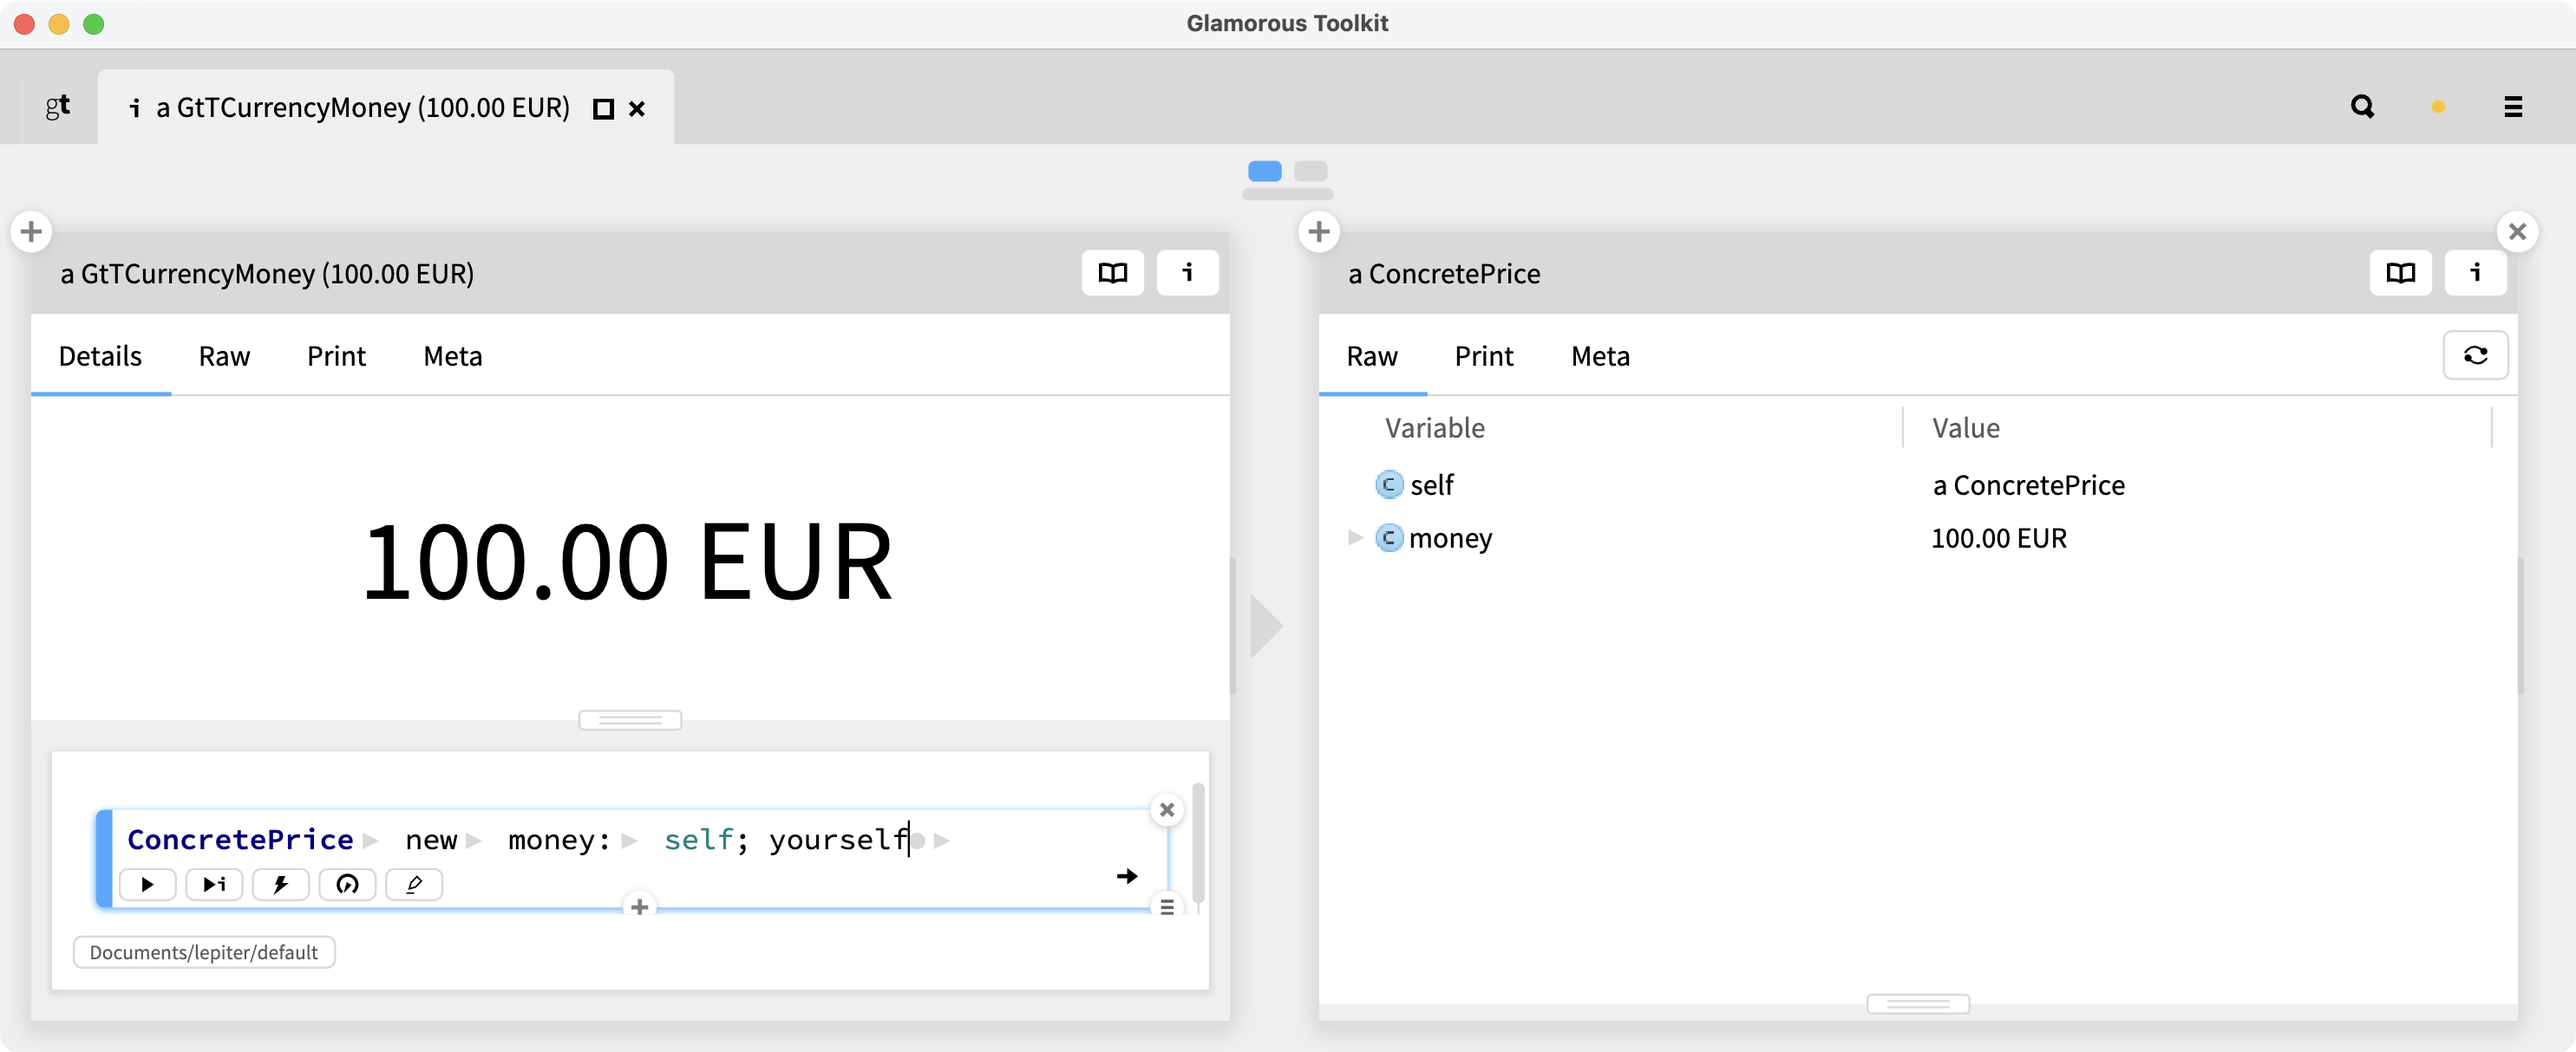
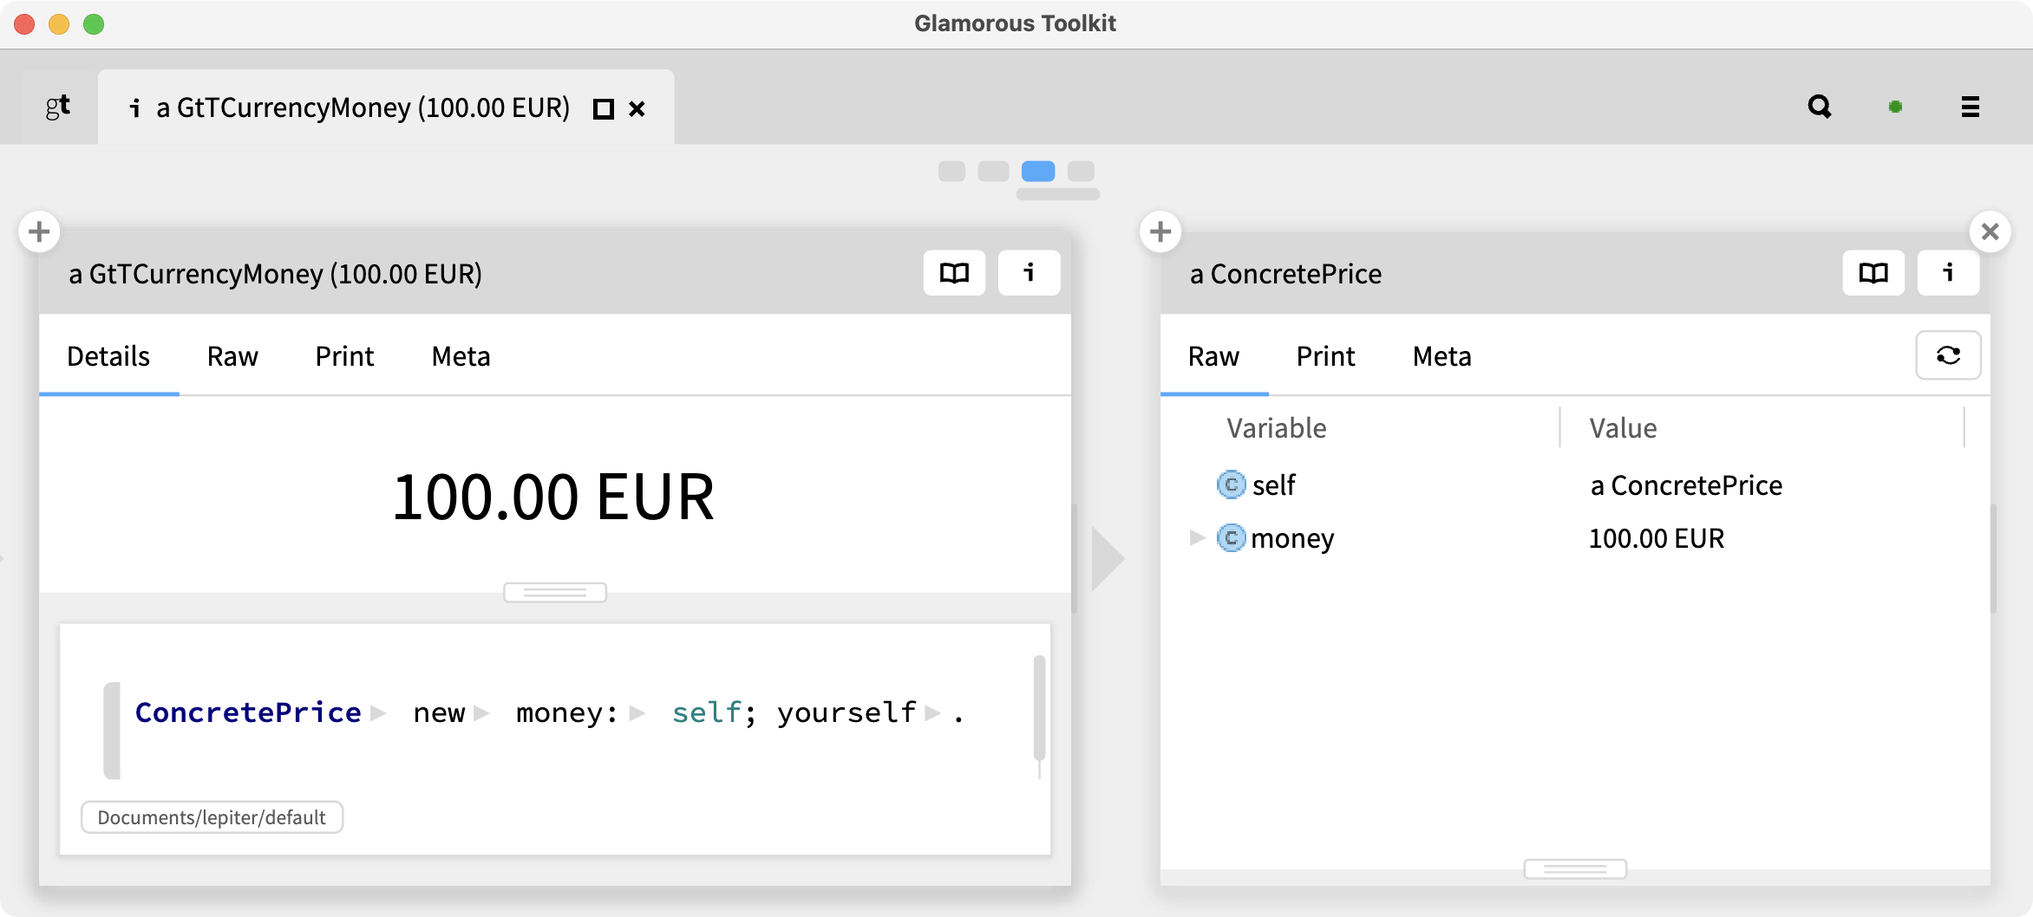
Cleaned up figures

diff --git a/eddBridge.tex b/eddBridge.tex
@@ -172,35 +172,13 @@ and
 	\item a green test returns an example that we can inspect, interact with, and, as we shall see, embed into live documentation.
 \end{inparaenum}
 
-%\begin{figure}[t]
-%\centering
-%\subfigure[Prototyping a raw Price object.]{
-%  \includegraphics[width=\columnwidth]{edd1-ConcretePrice100Euros}
-%  \label{fig:exampleCreationA}
-%  }\qquad
-%\subfigure[Prototyping a factory method.]{
-%  \includegraphics[width=\columnwidth]{edd2-PrototypingAsPrice}
-%  \label{fig:exampleCreationB}
-%  }\qquad
-%\subfigure[Extracting a factory method.]{
-%  \includegraphics[width=\columnwidth]{edd3-ExtractAsPrice}
-%  \label{fig:exampleCreationC}
-%  }\qquad
-%\subfigure[Rewriting the initial snippet.]{
-%  \includegraphics[width=\columnwidth]{edd4-MoneyAsPrice}
-%  \label{fig:exampleCreationD}
-%  }\qquad
-%  \caption{Incrementally building an example.}
-%  \label{fig:exampleCreation}
-%\end{figure}
-
 Let's see how this can work with a small, running example in Glamorous Toolkit\footnote{\url{https://gtoolkit.com}} (GT), an open-source moldable development environment implemented on top of the Pharo\footnote{\url{https://pharo.org}} Smalltalk  platform.
 
 Suppose we have an existing library of classes implementing amounts of \st{Money} in various currencies, such as \st{100 euros} or \st{10 usd}.
 We would now like to implement \emph{prices} for goods, where a \st{Price} may be a concrete, fixed price, or a \emph{discounted} price, where the discount may be a fixed value or a percentage.
 
 With TDD we would probably start by specifying a test method within a dedicated \st{TestPrice} class that sets up a fixture for a concrete fixed price of, say, \st{100 euros}, and then asserts something about it.
-With examples, \emph{we could do pretty much the same}, creating an example method in a \st{PriceExamples} class that creates the same fixture, asserts something, \emph{and returns that example object}.
+With examples, \emph{we could do pretty much the same}, creating an example method in a \lst{PriceExamples} class that creates the same fixture, asserts something, \emph{and returns that example object}.
 But how would we create an instance of the (not yet defined) \st{Price} class?
 What would we like to assert about it?
 What should the API of the \st{Price} class look like?
@@ -232,10 +210,10 @@ We can also click on that slot, and inspect its value as well (rightmost pane).
 At this point we realize that it would be nice to have a factory method to create a \st{Price} from a \st{Money} instance.
 In the context of the live \st{100 euro} \st{Money} object (\autoref{fig:exampleCreationB} bottom of left pane) we prototype the code to create a price from this instance, namely:
 \begin{code}
-ConcretePrice new money: self; yourself
+ConcretePrice new money: self; yourself.
 \end{code}
-(Note that \st{self} is bound to the live object we are inspecting).
-Evaluating this snippet and inspecting the result (right pane) shows that this gives us the \st{ConcretePrice} object that we expect.
+Note that \st{self} is bound to the live object we are inspecting)
+Evaluating this snippet and inspecting the result (right pane) gives us the \st{ConcretePrice} object that we expect.
 
 \begin{figure}[h]
   \includegraphics[width=\columnwidth]{edd3-ExtractAsPrice}
@@ -245,7 +223,7 @@ Evaluating this snippet and inspecting the result (right pane) shows that this g
 
 Now that we have prototyped the factory code, we can extract it as an extension method of the \st{Money} class called \st{asPrice} using an \emph{Extract method} refactoring.
 We see the refactored code (\autoref{fig:exampleCreationC}, left pane) as a ``code bubble''~\cite{Brag10a} by expanding \st{asPrice}.
-We also see that the refactored snippet, namely \st{self asPrice}, still yields the result  we want (right pane).
+We also see that the refactored snippet still yields the result we want (right pane).
 
 \begin{figure}[h]
   \includegraphics[width=\columnwidth]{edd4-MoneyAsPrice}
@@ -253,7 +231,7 @@ We also see that the refactored snippet, namely \st{self asPrice}, still yields 
   \label{fig:exampleCreationD}
 \end{figure}
 
-Now we can go back to our original snippet (\autoref{fig:exampleCreationD}, left pane) and rewrite it as
+Now we can go back to our original snippet (\autoref{fig:exampleCreationD}, left pane) and rewrite it as:
 \begin{code}
 100 euros asPrice.
 \end{code}
@@ -290,7 +268,7 @@ Now we can go back to our original snippet (\autoref{fig:exampleCreationD}, left
 \end{figure}
 
 Now we have a nice snippet that creates an example that interests us.
-In \autoref{fig:exampleExtractionA} we again apply an \emph{Extract method} refactoring, this time to create a new \st{PriceExamples} class with a \st{hundredEuros} example  method.
+In \autoref{fig:exampleExtractionA} we apply an \emph{Extract example} refactoring to create a new \st{PriceExamples} class with a \st{hundredEuros} example  method.
 
 \begin{figure}[h]
   \includegraphics[width=\columnwidth]{edd6-PriceExample}
@@ -312,7 +290,7 @@ Within the context of the live example (\autoref{fig:exampleExtractionC}, left p
 Unfortunately this fails (right pane) because our new \st{ConcretePrice} object has not implemented equality, so equality defaults to object identity.
 
 \begin{figure}[h]
-  \includegraphics[width=\columnwidth]{edd9ExampleWithAssertions}
+  \includegraphics[width=\columnwidth]{edd8ExampleWithAssertions}
 	\caption{Adding the assertion to the example method.}
   \label{fig:exampleExtractionD}
 \end{figure}
@@ -380,7 +358,7 @@ In this case, the \emph{Overview} explains how the price has been calculated as 
 % ============================================================
 \section{Explainable Systems using Examples}\label{sec:explainable}
 
-\todo{Add something about creating narratives -- the custom views allow you to create both fixed narratives as notebook pages, and dynamic narratives by navigating to new views}
+%\todo{Add something about creating narratives -- the custom views allow you to create both fixed narratives as notebook pages, and dynamic narratives by navigating to new views}
 
 Perhaps the most compelling use of examples is within live documentation.
 GT includes support for knowledge bases consisting of linked notebook pages that are composed various kinds of snippets: formatted test, images, code in various programming languages, and live examples.
